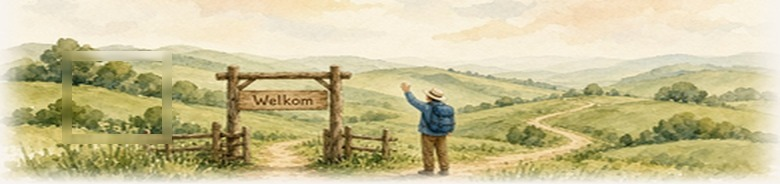
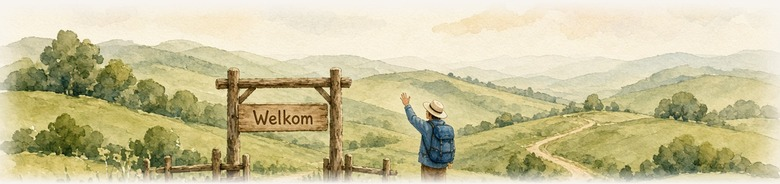
Start mockup start-d: rebuild hero from clean source without inpaint.

diff --git a/tools/scripts/export-onboarding-rustig-start-hero.py b/tools/scripts/export-onboarding-rustig-start-hero.py
@@ -1,0 +1,72 @@
+#!/usr/bin/env python3
+"""Export start hero bands from clean 16:9 source (no inpaint)."""
+
+from __future__ import annotations
+
+import importlib.util
+import sys
+from pathlib import Path
+
+import numpy as np
+from PIL import Image
+
+ROOT = Path(__file__).resolve().parents[2]
+RAW = ROOT / "artifacts/onboarding-rustig-panorama-raw/start-desktop-raw.jpg"
+FALLBACK = Path("/opt/cursor/artifacts/assets/start-desktop-raw-v3.jpg")
+DESK_OUT = ROOT / "Jobsy.Web/wwwroot/images/onboarding/rustig-panorama/start-desktop.jpg"
+MOB_OUT = ROOT / "Jobsy.Web/wwwroot/images/onboarding/rustig-panorama/start-mobile.jpg"
+CREAM = np.array([247.0, 244.0, 240.0], dtype=np.float32)
+
+
+def load_fin():
+    spec = importlib.util.spec_from_file_location(
+        "fin", ROOT / "tools/scripts/finalize-onboarding-rustig-panoramas.py"
+    )
+    m = importlib.util.module_from_spec(spec)
+    assert spec.loader is not None
+    spec.loader.exec_module(m)
+    return m
+
+
+def apply_top_sky_fade(im: Image.Image, top_frac: float = 0.12) -> Image.Image:
+    w, h = im.size
+    overlay = Image.new("RGBA", (w, h), (0, 0, 0, 0))
+    px = overlay.load()
+    cream = tuple(int(c) for c in CREAM)
+    top = max(8, int(h * top_frac))
+    for y in range(h):
+        for x in range(w):
+            a = 0
+            if y < top:
+                t = 1.0 - y / max(1, top - 1)
+                a = max(a, int(255 * t**0.75))
+            if a:
+                px[x, y] = (*cream, a)
+    return Image.alpha_composite(im.convert("RGBA"), overlay).convert("RGB")
+
+
+def export_start(src: Path) -> None:
+    fin = load_fin()
+    raw = Image.open(src).convert("RGB")
+    desk = fin.apply_cream_fades(fin.fit_desktop(raw, "start"))
+    mob = fin.apply_cream_fades(fin.fit_mobile(raw, "start"))
+    desk = apply_top_sky_fade(desk, 0.11)
+    mob = apply_top_sky_fade(mob, 0.10)
+    DESK_OUT.parent.mkdir(parents=True, exist_ok=True)
+    desk.save(DESK_OUT, quality=92, optimize=True)
+    mob.save(MOB_OUT, quality=92, optimize=True)
+    print(f"wrote {DESK_OUT} size={desk.size}")
+    print(f"wrote {MOB_OUT} size={mob.size}")
+
+
+def main() -> None:
+    src = Path(sys.argv[1]) if len(sys.argv) > 1 else RAW
+    if not src.is_file():
+        src = FALLBACK
+    if not src.is_file():
+        raise SystemExit(f"missing start source: {src}")
+    export_start(src)
+
+
+if __name__ == "__main__":
+    main()

diff --git a/tools/scripts/finalize-onboarding-rustig-panoramas.py b/tools/scripts/finalize-onboarding-rustig-panoramas.py
@@ -24,7 +24,7 @@ FADE_BOTTOM = 16
 FADE_SIDE = 24
 # 16:9 raws only (legacy / step-03): vertical band with headroom (approved step-03 crop).
 Y0_FRAC_16X9 = 0.456
-Y0_FRAC_SLUG: dict[str, float] = {}
+Y0_FRAC_SLUG: dict[str, float] = {"start": 0.34}
 PALETTE_SOFTEN_SLUGS: frozenset[str] = frozenset()
 # Desktop raws authored at ~6:1 — scale to DESKTOP, no vertical crop.
 BAND_NATIVE_MIN_RATIO = 5.4
